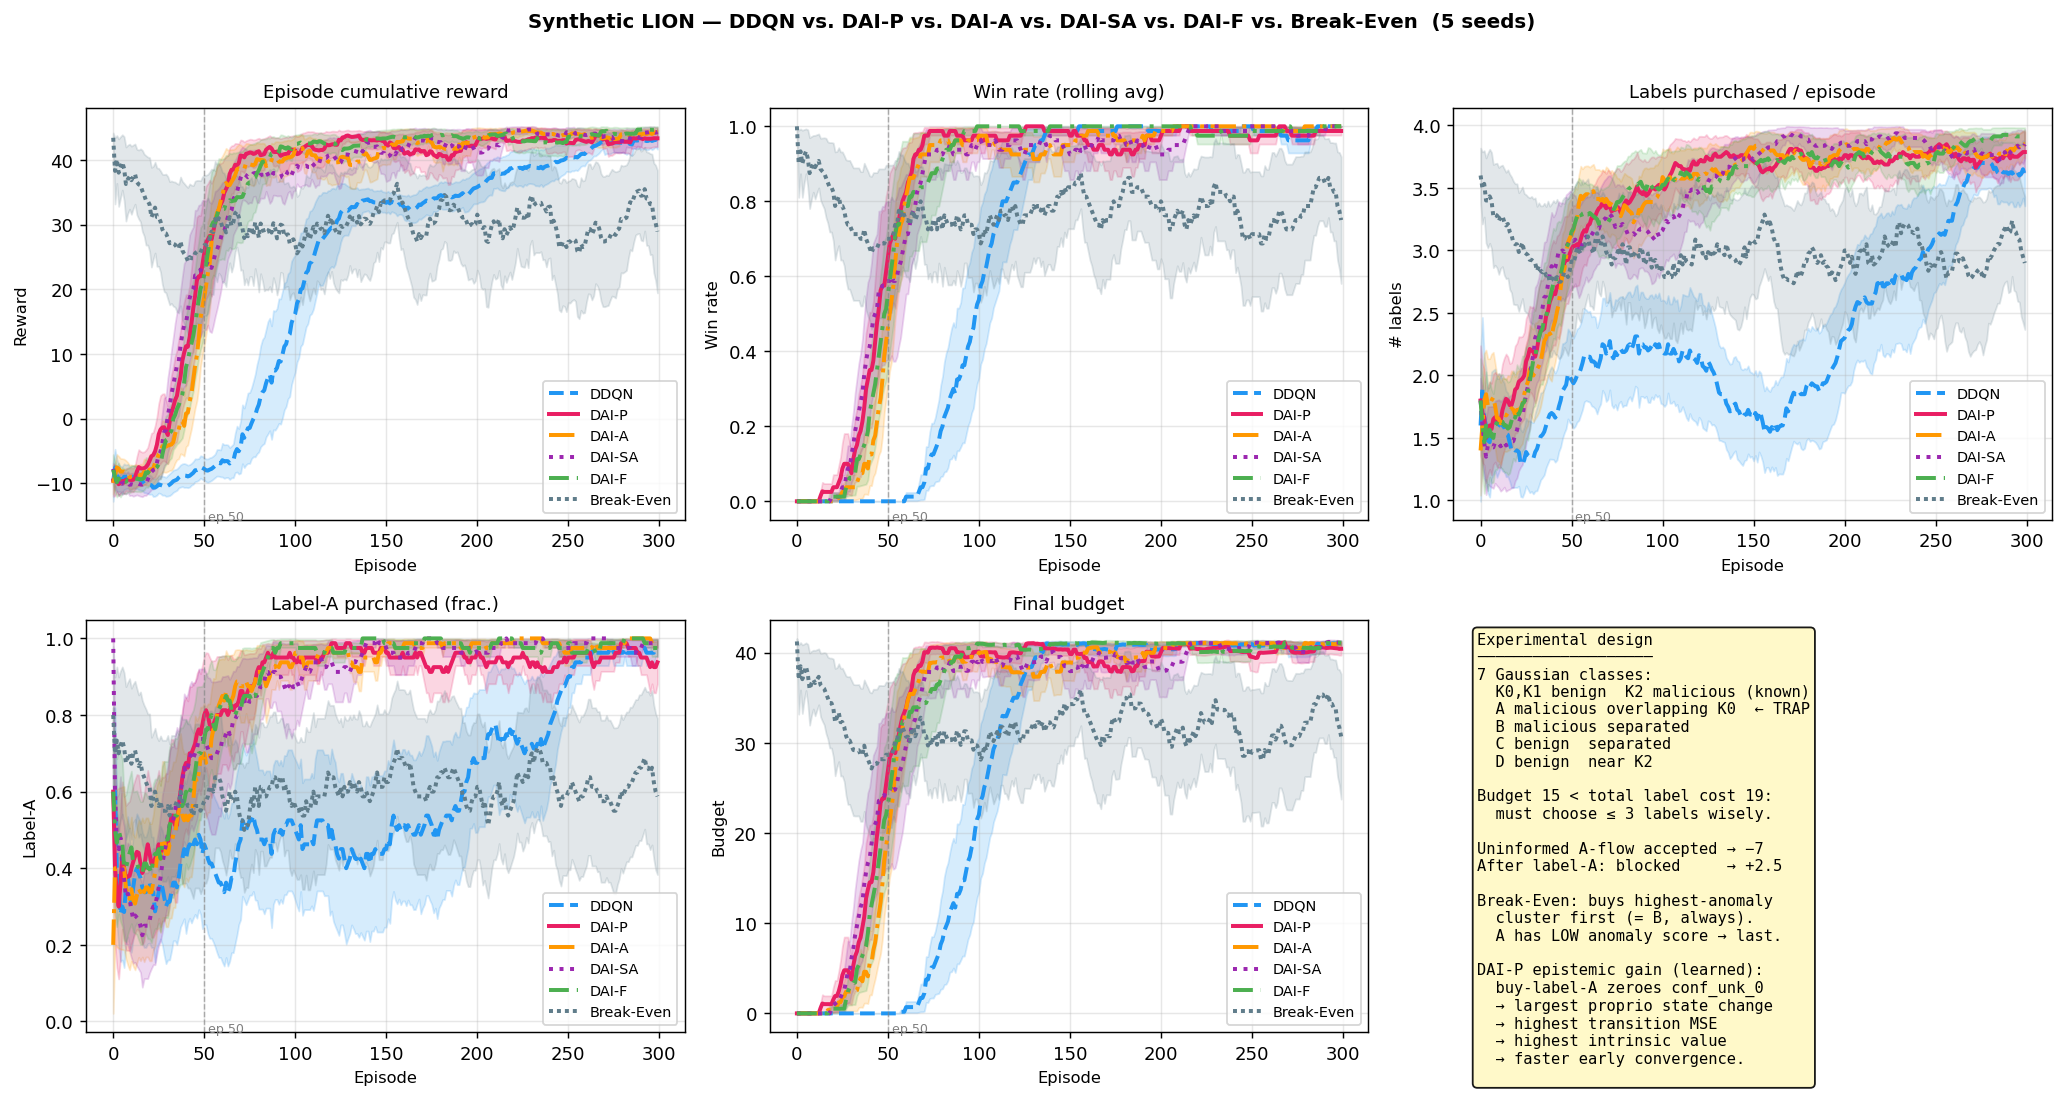
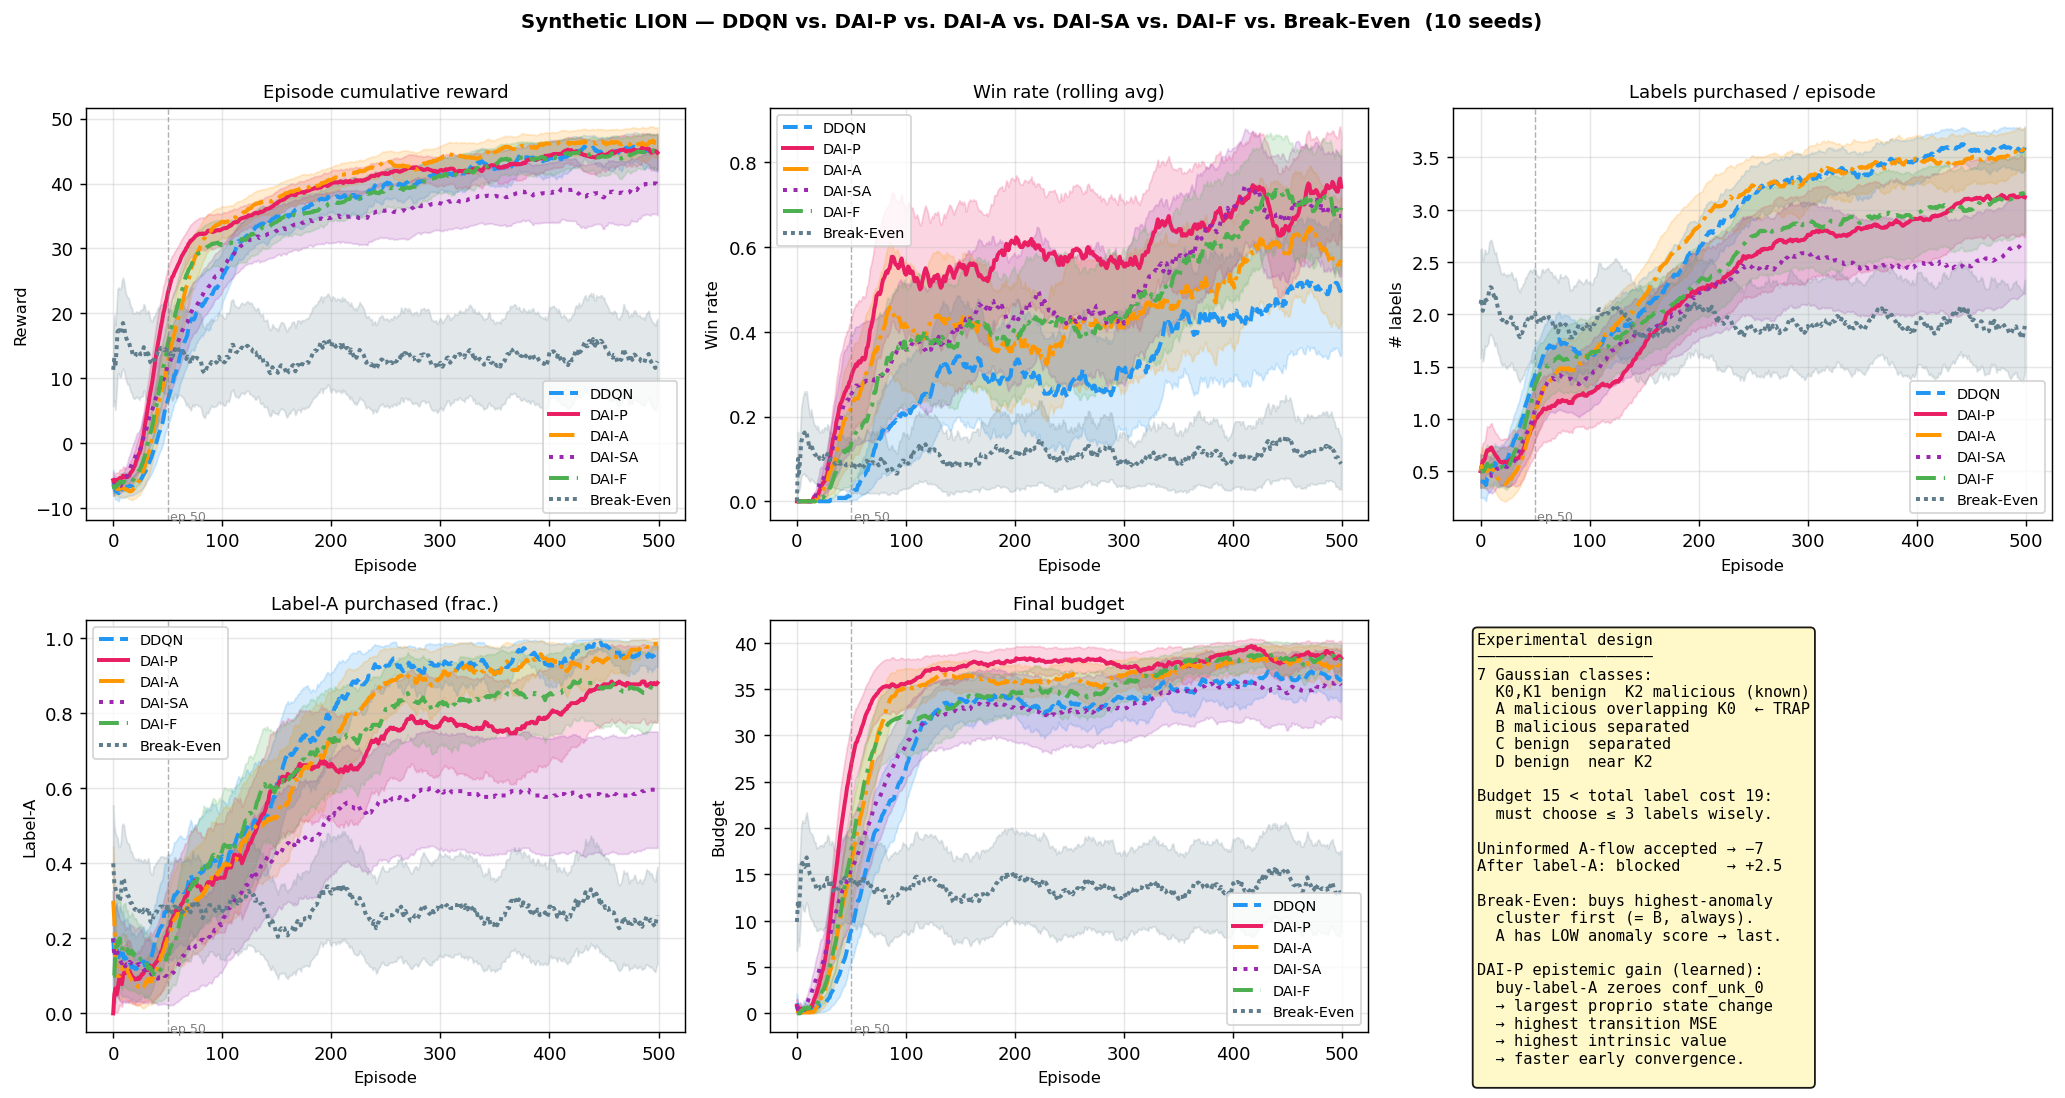
last results

diff --git a/synthetic_lion.py b/synthetic_lion.py
@@ -123,8 +123,8 @@ CFG = dict(
     # spending 6 of 15 up front; then can only afford C (4) and is stuck with
     # 5 left—not enough for A (5 exact) if any A-flow has already drained budget.
     # DAI-P's epistemic gain pushes it to buy A first despite A's low anomaly score.
-    max_steps    = 50,
-    init_budget  = 15.0,
+    max_steps    = 30,
+    init_budget  = 8.0,
     min_budget   = 0.0,
     max_budget   = 40.0,
 
@@ -2026,8 +2026,8 @@ def plot_results(results: dict, n_episodes: int,
 
 def main():
     parser = argparse.ArgumentParser(description='Synthetic LION experiment')
-    parser.add_argument('--episodes',          type=int,  default=300)
-    parser.add_argument('--seeds',             type=int,  default=5)
+    parser.add_argument('--episodes',          type=int,  default=500)
+    parser.add_argument('--seeds',             type=int,  default=10)
     parser.add_argument('--no-plot',           action='store_true')
     parser.add_argument('--verbose',           action='store_true', default=False)
     parser.add_argument('--log-interval',      type=int,  default=0,
